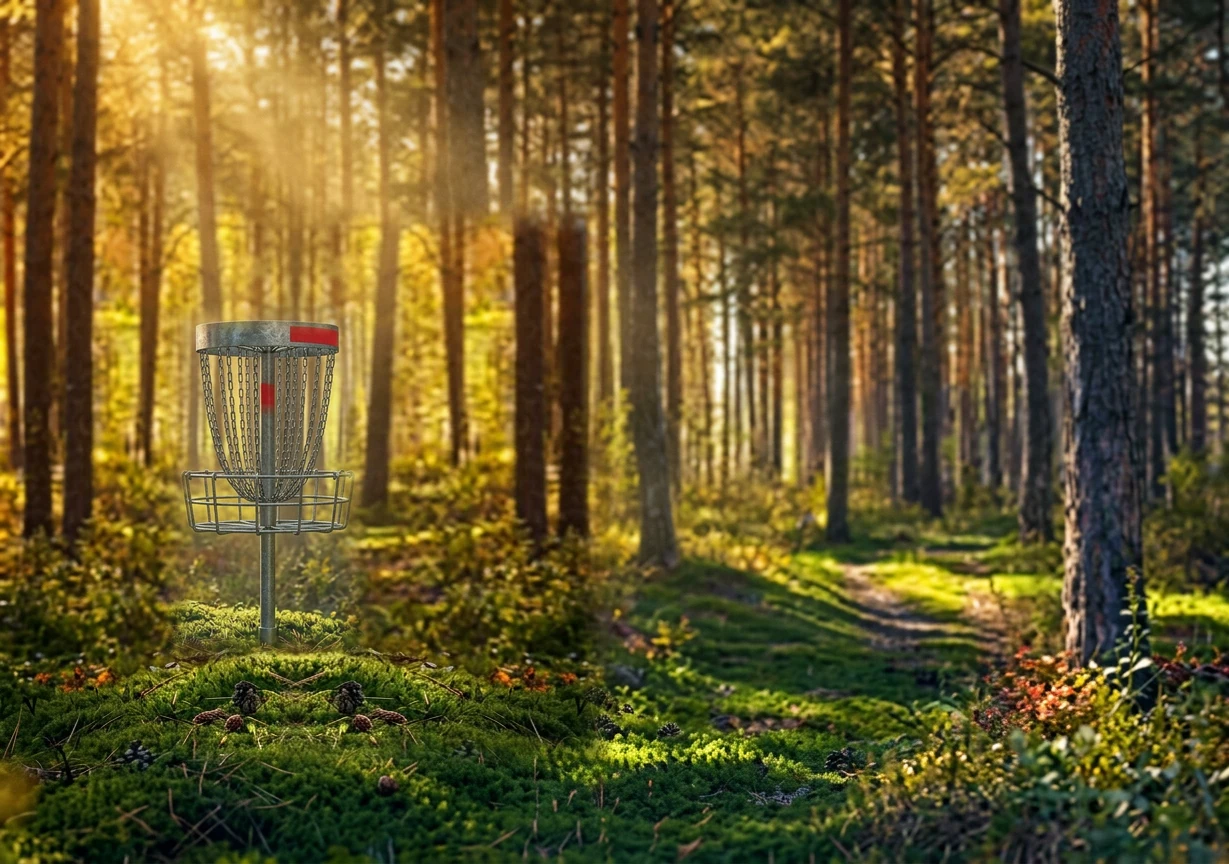
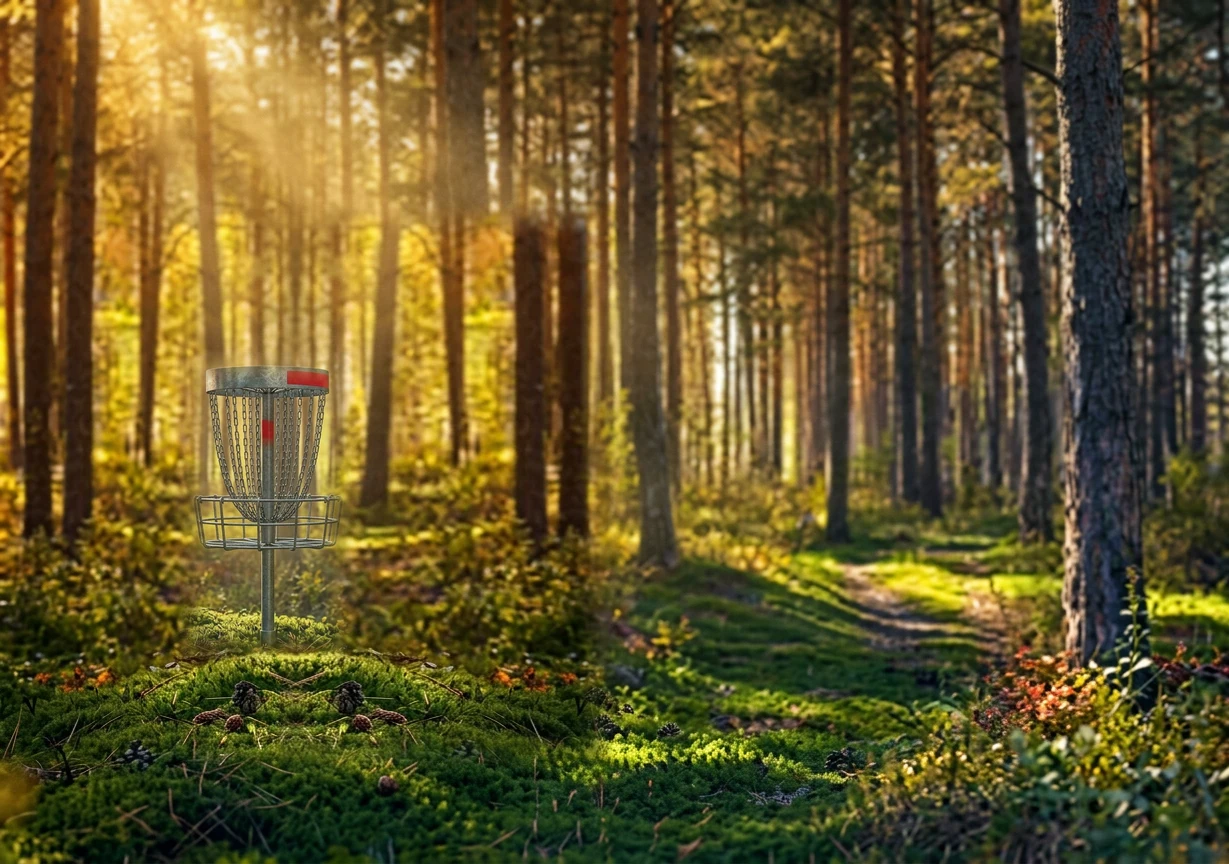
feat(discer): catalogue filter by brand, type and price; smaller basket
Basket. SCALE drops from 0.72 to 0.62, so it is now 38% smaller than in
the source photo rather than 28%.

Filter. A Filter button next to the "Våre Discer" heading opens a panel
with brand chips, type chips and a price sort. Brand and type are
multi-select and intersect; price is a single choice. A badge counts
active filters, a line reports how many of the 15 discs match, and an
empty state offers a reset.

While a price sort is active the per-class grouping is dropped and the
discs render as one grid — sorting inside each class separately would not
be a price sort. Re-renders mark cards visible immediately instead of
re-arming the scroll reveal, otherwise filtering flashes an empty grid.

Prices. Cards showed a hardcoded 179 kr, which would make a price sort
meaningless. head.liquid now emits window.FL_PRICE from the Discer
collection and the cards read from it, falling back to 179 kr when the
page is opened standalone. A collection loop is used rather than
all_products, which is capped at 20 lookups per template and already
spends 12 on the card images.

Note: all 15 discs are currently 179 kr in the store, so the sort is
correct but reorders nothing until the prices actually differ.

Verified in-page: brand filter matches, sort ascends and descends, badge
and counts update, empty combination (Kastaplast + Fairway) shows the
empty state, and both reset paths clear every chip.

Claude-Session: https://claude.ai/code/session_01M6oSSxDmWDa2rNZhp7dcx9

Changed region(s): [[0.1237, 0.3438, 0.3092, 0.75]]

diff --git a/animated-sites/flightlab-cinematic/index.html b/animated-sites/flightlab-cinematic/index.html
@@ -221,6 +221,41 @@ nav .nl a.pressing,.brand.pressing{display:inline-block;transform:scale(.88)!imp
   .disc-group{margin-bottom:26px}
   .disc-group .gt h3{font-size:16px}}
 .disc-group{margin-bottom:40px}
+/* ---- catalogue filter ---- */
+.filterbtn{display:inline-flex;align-items:center;gap:7px;vertical-align:middle;margin-left:14px;
+  font-family:var(--b);font-size:13px;font-weight:600;color:var(--ink);cursor:pointer;
+  padding:8px 15px;border-radius:999px;border:1px solid var(--glassbrd);background:var(--glass2);
+  box-shadow:inset 0 1px 0 rgba(255,255,255,.7),0 3px 12px rgba(10,22,20,.07);
+  -webkit-tap-highlight-color:transparent;transition:border-color .2s,box-shadow .2s}
+.filterbtn:hover{border-color:rgba(255,107,53,.5)}
+.filterbtn[aria-expanded="true"]{border-color:var(--signal);color:var(--signal)}
+.filterbtn.pressing{transform:scale(.93)!important;transition:transform .1s ease-out!important}
+.fcount{display:inline-flex;align-items:center;justify-content:center;min-width:18px;height:18px;padding:0 5px;
+  border-radius:999px;background:var(--signal);color:#fff;font-size:11px;font-weight:700}
+.filterpanel{margin:0 0 26px;padding:18px 20px;border:1px solid var(--line);border-radius:18px;
+  background:linear-gradient(180deg,rgba(255,255,255,.7),rgba(255,255,255,.45));
+  display:grid;gap:16px;grid-template-columns:repeat(auto-fit,minmax(190px,1fr))}
+.filterpanel[hidden]{display:none}
+.fgroup h4{font-family:var(--h);font-weight:600;font-size:12px;letter-spacing:.08em;text-transform:uppercase;
+  color:var(--mut);margin-bottom:10px}
+.fchips{display:flex;flex-wrap:wrap;gap:7px}
+.fchip{font-family:var(--b);font-size:12.5px;font-weight:500;color:var(--ink);cursor:pointer;
+  padding:6px 12px;border-radius:999px;border:1px solid var(--line);background:rgba(255,255,255,.7);
+  -webkit-tap-highlight-color:transparent;transition:background .18s,border-color .18s,color .18s}
+.fchip:hover{border-color:rgba(255,107,53,.45)}
+.fchip[aria-pressed="true"]{background:var(--forest);border-color:var(--forest);color:#fff}
+.fchip.pressing{transform:scale(.92)!important;transition:transform .1s ease-out!important}
+.frow{grid-column:1/-1;display:flex;align-items:center;justify-content:space-between;gap:12px;
+  border-top:1px solid var(--line);padding-top:13px}
+.fres{font-size:12.5px;color:var(--mut)}
+.fclear,.flink{font-family:var(--b);font-size:12.5px;font-weight:600;color:var(--signal);cursor:pointer;
+  background:none;border:none;padding:4px 2px;-webkit-tap-highlight-color:transparent}
+.fempty{text-align:center;color:var(--mut);font-size:14px;padding:34px 0}
+.fempty[hidden]{display:none}
+@media(max-width:560px){
+  .filterbtn{margin-left:10px;font-size:12px;padding:7px 13px}
+  .filterpanel{padding:15px 15px;gap:14px;grid-template-columns:1fr}
+}
 .disc-group .gt{display:flex;align-items:baseline;gap:12px;margin-bottom:18px;border-bottom:1px solid var(--line);padding-bottom:12px}
 .disc-group .gt h3{font-family:var(--h);font-weight:600;font-size:20px;letter-spacing:-.01em}
 .disc-group .gt span{font-size:12px;color:var(--mut)}
@@ -354,10 +389,21 @@ footer{background:#eef4f1;color:var(--ink);padding:clamp(60px,9vh,110px) 0 40px}
   <div class="wrap">
     <div class="sec-head">
       <div><div class="eyebrow rv">// Side 1 · Discer</div>
-        <h2 class="rv" style="margin-top:12px">Våre <em>Discer</em></h2></div>
+        <h2 class="rv" style="margin-top:12px">Våre <em>Discer</em>
+          <button class="filterbtn" id="filterbtn" type="button" aria-expanded="false" aria-controls="filterpanel">
+            <svg width="15" height="15" viewBox="0 0 24 24" fill="none" stroke="currentColor" stroke-width="2" stroke-linecap="round"><path d="M3 5h18M6 12h12M10 19h4"/></svg>
+            Filter<span class="fcount" id="fcount" hidden></span>
+          </button></h2></div>
       <p class="rv">Femten modeller fra fem merker — putter, approach, midrange, fairway og distanse. Alle til én fast pris: 179 kr.</p>
     </div>
+    <div class="filterpanel" id="filterpanel" hidden>
+      <div class="fgroup"><h4>Merke</h4><div class="fchips" id="fbrand"></div></div>
+      <div class="fgroup"><h4>Type</h4><div class="fchips" id="ftype"></div></div>
+      <div class="fgroup"><h4>Pris</h4><div class="fchips" id="fprice"></div></div>
+      <div class="frow"><span class="fres" id="fres"></span><button class="fclear" id="fclear" type="button">Nullstill</button></div>
+    </div>
     <div id="disc-groups"></div>
+    <p class="fempty" id="fempty" hidden>Ingen discer passer filteret. <button class="flink" type="button" data-clear>Nullstill</button></p>
   </div>
 </section>
 
@@ -904,13 +950,83 @@ function disc3(b,m,n){const s=BRAND[b],S=108;
    '<span style="font-size:7px;letter-spacing:1px;color:rgba(250,249,245,.55);margin-top:3px">'+n.join(' · ')+'</span></div>'+
    '<div class="dl" style="transform:translateZ(7px);background:radial-gradient(ellipse 55% 35% at 30% 22%,rgba(255,255,255,.32),rgba(255,255,255,.06) 45%,transparent 65%)"></div>'+
    '</div></div>';}
+/* Prices come from Shopify as window.FL_PRICE, keyed by product handle.
+   The flat 179 kr is only a fallback for viewing this file on its own. */
+const FLPRICE=(typeof window!=='undefined'&&window.FL_PRICE)||{};
+const priceOf=d=>{const p=FLPRICE[d.h];return p&&isFinite(p.amount)?+p.amount:179};
+const priceText=d=>{const p=FLPRICE[d.h];return p&&p.text?p.text:'179 kr'};
+
 function card(d){return '<a class="pcard rv" href="/products/'+d.h+'"><div class="dw">'+disc3(d.b,d.m,d.n)+'</div><div class="shadow"></div>'+
-  '<h3>'+d.b+' '+d.m+'</h3><span class="cls">'+d.c+'</span><span class="fn">'+d.n.join(' · ')+'</span><span class="pr">179 kr</span></a>';}
-document.getElementById('disc-groups').innerHTML=CLASS_ORDER.map(([key,title,sub])=>{
-  const items=DISCS.filter(d=>d.c===key);if(!items.length)return '';
-  return '<div class="disc-group"><div class="gt rv"><h3>'+title+'</h3><span>'+sub+' · '+items.length+' modeller</span></div>'+
-    '<div class="pgrid">'+items.map(card).join('')+'</div></div>';
-}).join('');
+  '<h3>'+d.b+' '+d.m+'</h3><span class="cls">'+d.c+'</span><span class="fn">'+d.n.join(' · ')+'</span><span class="pr">'+priceText(d)+'</span></a>';}
+
+/* ---- catalogue filter: brand, type, price ---- */
+const F={brand:new Set(),type:new Set(),sort:''};
+const groupsEl=document.getElementById('disc-groups');
+
+function renderDiscs(first){
+  let items=DISCS.filter(d=>(!F.brand.size||F.brand.has(d.b))&&(!F.type.size||F.type.has(d.c)));
+  if(F.sort){
+    /* A price sort is global, so the per-class grouping is dropped while
+       it is active — otherwise you would only be sorting within a class. */
+    items=items.slice().sort((a,b)=>F.sort==='asc'?priceOf(a)-priceOf(b):priceOf(b)-priceOf(a));
+    groupsEl.innerHTML=items.length?'<div class="disc-group"><div class="pgrid">'+items.map(card).join('')+'</div></div>':'';
+  }else{
+    groupsEl.innerHTML=CLASS_ORDER.map(([key,title,sub])=>{
+      const g=items.filter(d=>d.c===key);if(!g.length)return '';
+      return '<div class="disc-group"><div class="gt rv"><h3>'+title+'</h3><span>'+sub+' · '+g.length+' modeller</span></div>'+
+        '<div class="pgrid">'+g.map(card).join('')+'</div></div>';
+    }).join('');
+  }
+  const empty=document.getElementById('fempty');if(empty)empty.hidden=items.length>0;
+  const n=F.brand.size+F.type.size+(F.sort?1:0);
+  const c=document.getElementById('fcount');if(c){c.hidden=!n;c.textContent=n||''}
+  const res=document.getElementById('fres');
+  if(res)res.textContent=items.length===DISCS.length?'Viser alle '+DISCS.length+' discer'
+    :items.length+' av '+DISCS.length+' discer';
+  /* First paint keeps the scroll reveal; later re-renders show at once, so
+     filtering does not look like a blank grid. */
+  if(first)groupsEl.querySelectorAll('.rv').forEach(el=>io.observe(el));
+  else groupsEl.querySelectorAll('.rv').forEach(el=>el.classList.add('in'));
+}
+
+(function(){
+  const btn=document.getElementById('filterbtn'),panel=document.getElementById('filterpanel');
+  if(!btn||!panel){renderDiscs(true);return}
+  const chip=(label,v)=>'<button class="fchip" type="button" role="switch" aria-pressed="false" data-v="'+v+'">'+label+'</button>';
+  const brands=[...new Set(DISCS.map(d=>d.b))].sort((a,b)=>a.localeCompare(b,'no'));
+  document.getElementById('fbrand').innerHTML=brands.map(b=>chip(b,b)).join('');
+  document.getElementById('ftype').innerHTML=CLASS_ORDER
+    .filter(([k])=>DISCS.some(d=>d.c===k)).map(([k,title])=>chip(title,k)).join('');
+  document.getElementById('fprice').innerHTML=chip('Lav til høy','asc')+chip('Høy til lav','desc');
+
+  btn.addEventListener('click',()=>{
+    const open=btn.getAttribute('aria-expanded')==='true';
+    btn.setAttribute('aria-expanded',String(!open));panel.hidden=open;
+  });
+  panel.addEventListener('click',e=>{
+    const t=e.target.closest('.fchip');
+    if(t){
+      const v=t.dataset.v,grp=t.parentElement.id;
+      if(grp==='fprice'){                       // price is a single choice
+        const on=F.sort===v;F.sort=on?'':v;
+        [...t.parentElement.children].forEach(c=>c.setAttribute('aria-pressed',String(!on&&c===t)));
+      }else{
+        const set=grp==='fbrand'?F.brand:F.type;
+        if(set.has(v)){set.delete(v);t.setAttribute('aria-pressed','false')}
+        else{set.add(v);t.setAttribute('aria-pressed','true')}
+      }
+      renderDiscs(false);return;
+    }
+    if(e.target.closest('#fclear'))clearAll();
+  });
+  document.addEventListener('click',e=>{if(e.target.closest('[data-clear]'))clearAll()});
+  function clearAll(){
+    F.brand.clear();F.type.clear();F.sort='';
+    panel.querySelectorAll('.fchip').forEach(c=>c.setAttribute('aria-pressed','false'));
+    renderDiscs(false);
+  }
+  renderDiscs(true);
+})();
 
 // bags (dedicated section)
 const BAGS=[
@@ -973,7 +1089,7 @@ document.getElementById('nlform').addEventListener('submit',e=>{e.preventDefault
 
 /* ===== Apple-style press feedback (pointer-based so iOS Safari honours it) ===== */
 (function(){
-  const SEL='.pcard,.acard,.btn,nav .nl a,.brand';
+  const SEL='.pcard,.acard,.btn,nav .nl a,.brand,.filterbtn,.fchip';
   addEventListener('pointerdown',e=>{const t=e.target.closest(SEL);if(t)t.classList.add('pressing');},{passive:true});
   const clear=()=>document.querySelectorAll('.pressing').forEach(el=>el.classList.remove('pressing'));
   ['pointerup','pointercancel','pointerleave','dragstart','scroll'].forEach(ev=>addEventListener(ev,clear,{passive:true}));

diff --git a/animated-sites/flightlab-cinematic/assets/move-basket.py b/animated-sites/flightlab-cinematic/assets/move-basket.py
@@ -38,7 +38,7 @@ HOLE = (275, 200, 615, 770)   # painted out; larger than the basket on purpose
 FILL = (0, 200, 315, 770)     # clean sunlit floor to its left
 BOX = (300, 235, 590, 740)    # basket plus a margin of forest
 FEATHER_HOLE, FEATHER_BASKET = 35, 34
-SCALE = 0.72                  # 28% smaller => further away
+SCALE = 0.62                  # 38% smaller => further away
 GROUND_Y = 718                # where the pole meets the moss
 BASKET_CX = 445               # basket centre in the original
 DX, DY = -180, -70            # left, and up the ground plane
